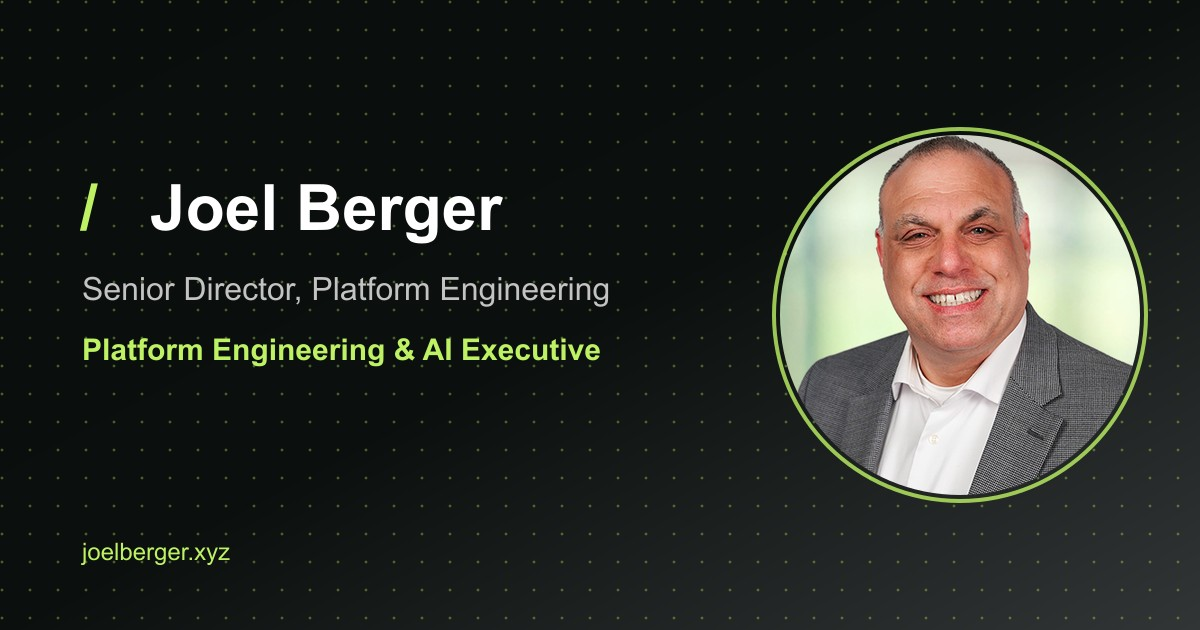
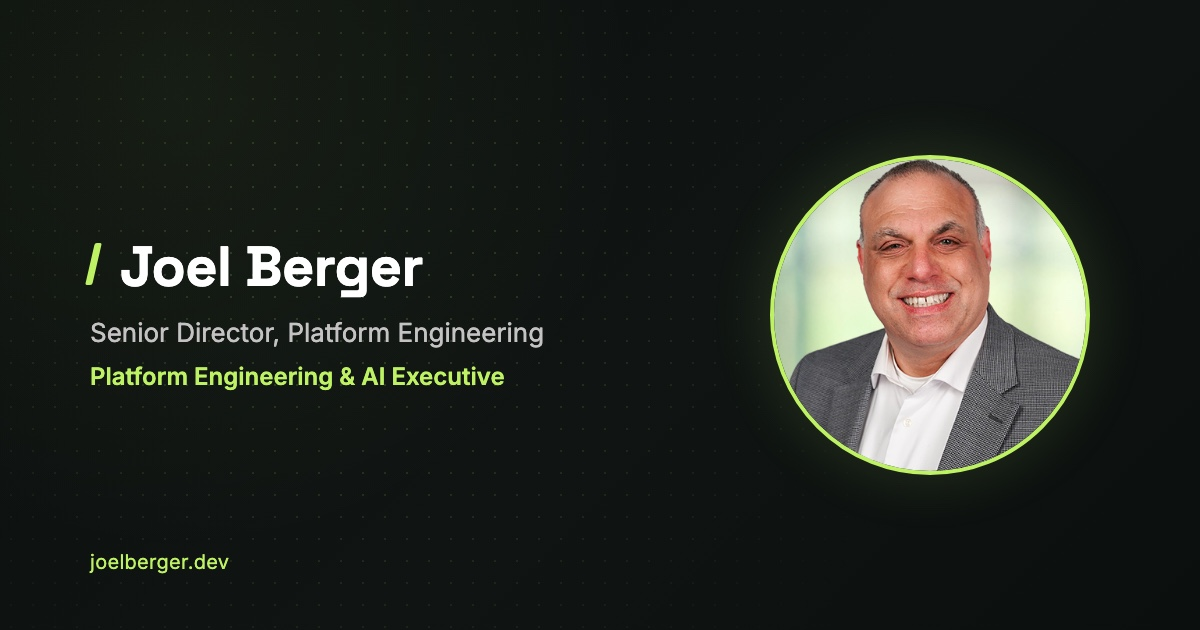
Update custom domain to joelberger.dev and regenerate OG image
Switched planned custom domain from joelberger.xyz to joelberger.dev
in TODO.md, and rebuilt the Open Graph card to match: same theme,
fonts, and layout, with the domain text updated and the accent slash
redrawn as a shape instead of a glyph so it sits flush with the text
baseline instead of dipping to the depth of the g in Berger.

diff --git a/TODO.md b/TODO.md
@@ -4,8 +4,9 @@ Pending polish items for this portfolio site. Tracked here (instead of only in C
 
 - [ ] **Try different fonts.** Current fonts are Space Grotesk (`--font-heading`) and Inter (`--font-body`), set in `src/styles/global.css`. Explore alternatives.
 - [ ] **Clean up GitHub project visibility, or remove the GitHub link.** `home.json` socials currently link to `https://github.com/joelberger76`. Either tidy up what's publicly visible on that profile, or drop the link.
-- [ ] **Add a custom domain.** Site currently serves from the default `https://joelberger76.github.io` (GitHub Pages). Set up a custom domain — needs a `CNAME` file in `public/`, DNS records at the registrar, and `siteUrl` in `home.json` (plus `SITE_URL` env var if used in CI) updated to match.
+- [ ] **Add a custom domain: `joelberger.dev`.** Site currently serves from the default `https://joelberger76.github.io` (GitHub Pages). Domain will be `joelberger.dev`, with `www.joelberger.dev` also supported (decide apex vs. `www` as the canonical/redirect target). Needs a `CNAME` file in `public/`, DNS records at the registrar, and `siteUrl` in `home.json` (plus `SITE_URL` env var if used in CI) updated to match. When this is picked up, provide walkthroughs for both sides: DNS record setup on Cloudflare (the DNS provider in use, covering both the apex and `www` records), and the corresponding GitHub Pages custom domain configuration (repo Settings > Pages, `CNAME` file, HTTPS enforcement). Porkbun is the registrar and DNS provider.
 - [ ] **Add GoatCounter analytics, production only.** Not implemented anywhere yet. Should follow the same `import.meta.env.PROD` gating pattern `index.astro` already uses for the live-backend fetch, so it doesn't fire during local dev.
 - [ ] **Give mobile a dedicated pass.** No specific bugs identified yet — just hasn't had a deliberate mobile review since recent layout changes (Education split, section subtitle removal, etc.). Check spacing, touch targets, and readability end-to-end on a real device or emulator.
 - [ ] Consider replacing the mobile toolbar. No concrete complaint yet — just a hunch that the current bottom nav (`nav.astro`, icon+label bar that auto-hides on scroll) might not be the right pattern. Revisit once there's a specific reason to change it.
+- [ ] **Update LinkedIn profile to match the site, and add the site URL.** Once the primary tasks in this list are done (site content/design settled, custom domain live), sync LinkedIn's info with what's on the portfolio site and add the site's URL (once the custom domain above is set up, use `https://joelberger.dev`) to the LinkedIn profile.
 - [ ] **Visually validate look and feel at every breakpoint, site-wide.** Check each section (Home, Career, Education, Key Initiatives, Core Competencies, Contact, nav) at each Tailwind breakpoint (default/mobile, `sm` 640px, `md` 768px, `lg` 1024px, `xl` 1280px, `2xl` 1536px) for overflow, clipping, and awkward stretching, not just "does it look fine at a glance." Motivated by the Core Competencies bug just found and fixed: a flex `min-width: auto` default plus mismatched grid column breakpoints caused real, silent text clipping (no ellipsis) at specific in-between widths that wasn't obvious without actually resizing through each breakpoint and inspecting closely. Other sections (`career-card.astro`, `project-card.astro`, `education-card.astro`) use similar flex/grid layouts and haven't had the same scrutiny.
